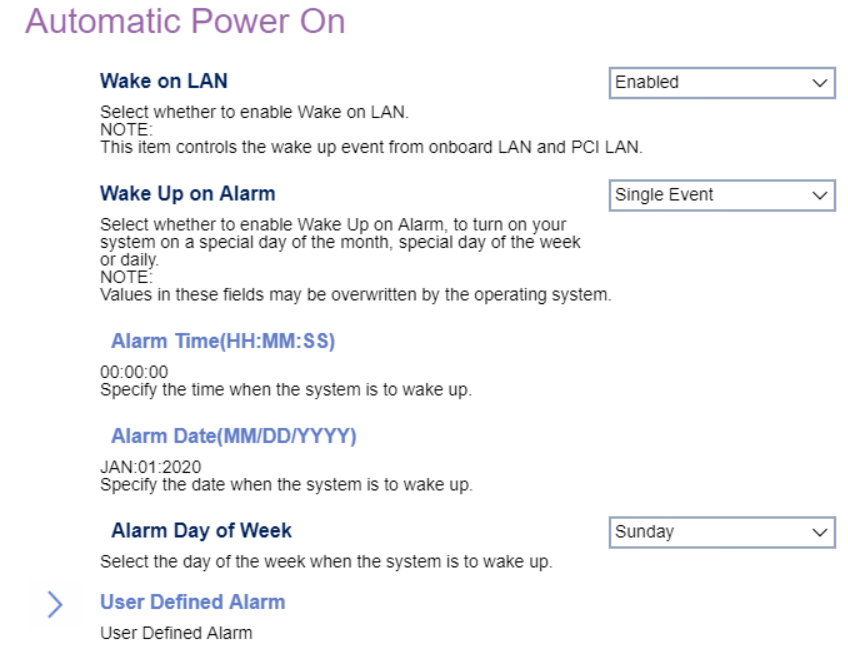
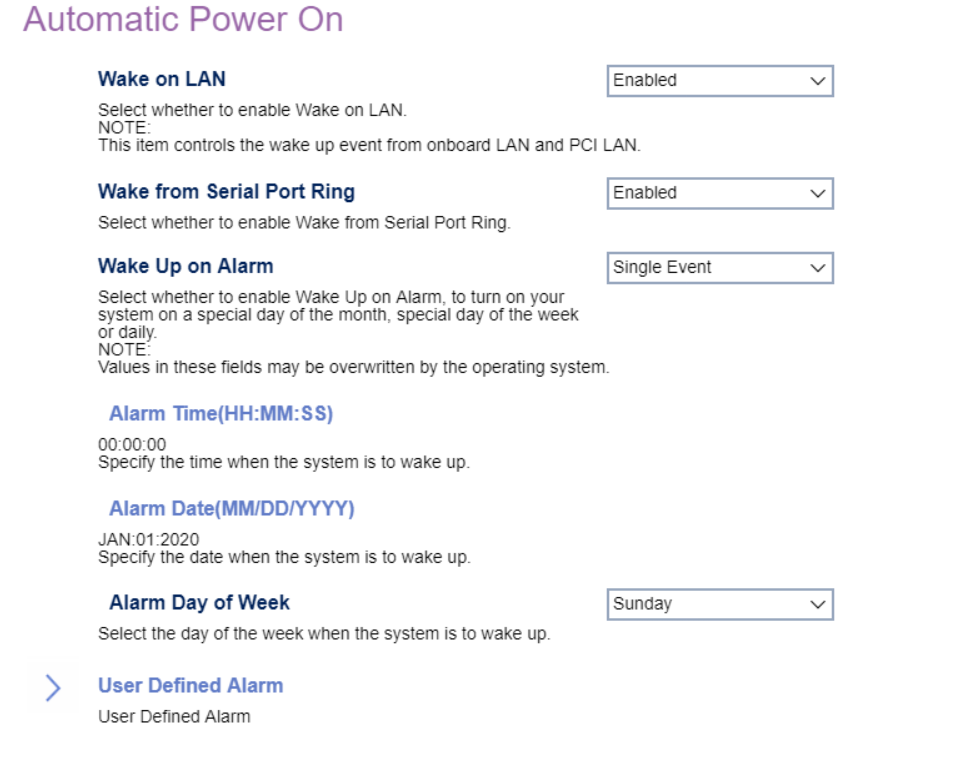
FIX proofread per issue 14-31

diff --git a/bios/settings/thinkcenter/automatic_power_on.md b/bios/settings/thinkcenter/automatic_power_on.md
@@ -6,7 +6,7 @@
 
 Controls the wake up event from onboard LAN and PCI LAN.
 
-One of 2 possible options for Wake on LAN:
+Options:
 
 1.  **Enabled** - enables Wake on LAN. Default.
 2.  Disabled - disables Wake on LAN.
@@ -23,10 +23,10 @@ One of 2 possible options for Wake on LAN:
 
 Select whether to enable Wake from Serial Port Ring., and/or which Startup Sequence to use after a serial port wake up event.
 
-One of 3 possible options for Wake from Serial Port Ring:
+Options:
 
-1. **Enabled** - enables Wake from Serial Port Ring. Default.
-2. Disabled - disables Wake from Serial Port Ring.
+1. **Enabled** - Default.
+2. Disabled.
 
 <!-- 
 | WMI Setting name | Values | SVP Req'd | AMD/Intel |
@@ -41,7 +41,11 @@ One of 3 possible options for Wake from Serial Port Ring:
 
 Options to turn on your system on a specific day of the month, specific day of the week, or daily at a given time. A single wake up event, or series of alarm events, can also be defined.
 
-One of 5 possible options for Wake Up on Alarm:
+**Note:**  Selecting `User Defined` enables the `User Defined Alarm` settings.
+
+**Note:**  Values in these fields may be overwritten by the operating system.
+
+Options:
 
 1.  **Disabled** - Disables Wake Up on Alarm. Default.
 2.  User Defined - a series of alarm events.
@@ -55,17 +59,13 @@ One of 5 possible options for Wake Up on Alarm:
 | WakeUponAlarm | setting_values | yes_no | amd_intel |
 -->
 
-**Note:**  Selecting `User Defined` enables the `User Defined Alarm` settings.
-
-**Note:**  Values in these fields may be overwritten by the operating system.
-
 </details>
 
 <details><summary>Startup Sequence</summary>
 
 Select the startup sequence after a Wake Up on Alarm event.
 
-One of 2 possible options for startup sequence:
+Options:
 
 1.  **Primary** - enables primary startup sequence. Default.
 2.  Automatic - disables automatic selection of startup sequence.
@@ -82,11 +82,17 @@ One of 2 possible options for startup sequence:
 
 Specify the time when the system is to wake up.
 
+Hours / minutes / seconds format.
+
 <!-- SIMULATOR DOES NOT SUPPORT -->
 
 ### Alarm Date (MM / DD / YYYY) ###
 
-Alarm day of week.
+Precise date in month / day / year format.
+
+### Alarm day of week. ###
+
+Weekday (Sunday to Saturday).
 
 <!-- SIMULATOR DOES NOT SUPPORT -->
 
@@ -94,9 +100,9 @@ Alarm day of week.
 
 ![](./img/thinkcenter_user_defined_alarm.png)
 
-Select the day(s) of the week when the system is to wake up. Each {Day} has its own setting.
+Select the day(s) of the week when the system is to wake up. Each {Weekday} (Sunday to Saturday) has its own setting.
 
-<details><summary>{Day}</summary>
+<details><summary>{Weekday}</summary>
 
 One of 2 possible options for waking up this day:
 

diff --git a/bios/settings/thinkcenter/power.md b/bios/settings/thinkcenter/power.md
@@ -6,6 +6,8 @@
 
 Whether the system will stay on after AC power is removed and then restored.
 
+**Note:**  Select `Power on` if you use a power strip to turn the system on.
+
 Options:
 
 1. **Last State** - return to the previous state. Default.
@@ -17,13 +19,14 @@ Options:
 |:---|:---|:---|:---|
 | AfterPowerLoss | setting_values | yes_no | amd_intel |
 -->
-**Note:**  Select `Power on` if you use a power strip to turn the system on.
 
 </details>
 
 <details><summary>Enhanced Power Saving Mode</summary>
 
-The total power consumption is lower during power off.
+When enabled,  total power consumption is lower during power off.
+
+**Note:** In Enhanced Power Saving Mode, only the `Wake up on Alarm` function is supported. Other wake-up functions are not. System will not enter `Enhanced Power Saving Mode` if Intel ME is required to be active in Sx states, and host is in AC mode.
 
 Options:
 
@@ -35,7 +38,6 @@ Options:
 |:---|:---|:---|:---|
 | EnhancedPowerSavingMode | setting_values | yes_no | amd_intel |
 -->
-**Note:** In Enhanced Power Saving Mode, only the `Wake up on Alarm` function is supported. Other wake-up functions are not. System will not enter `Enhanced Power Saving Mode` if Intel ME is required to be active in Sx states, and host is in AC mode.
 
 </details>
 
